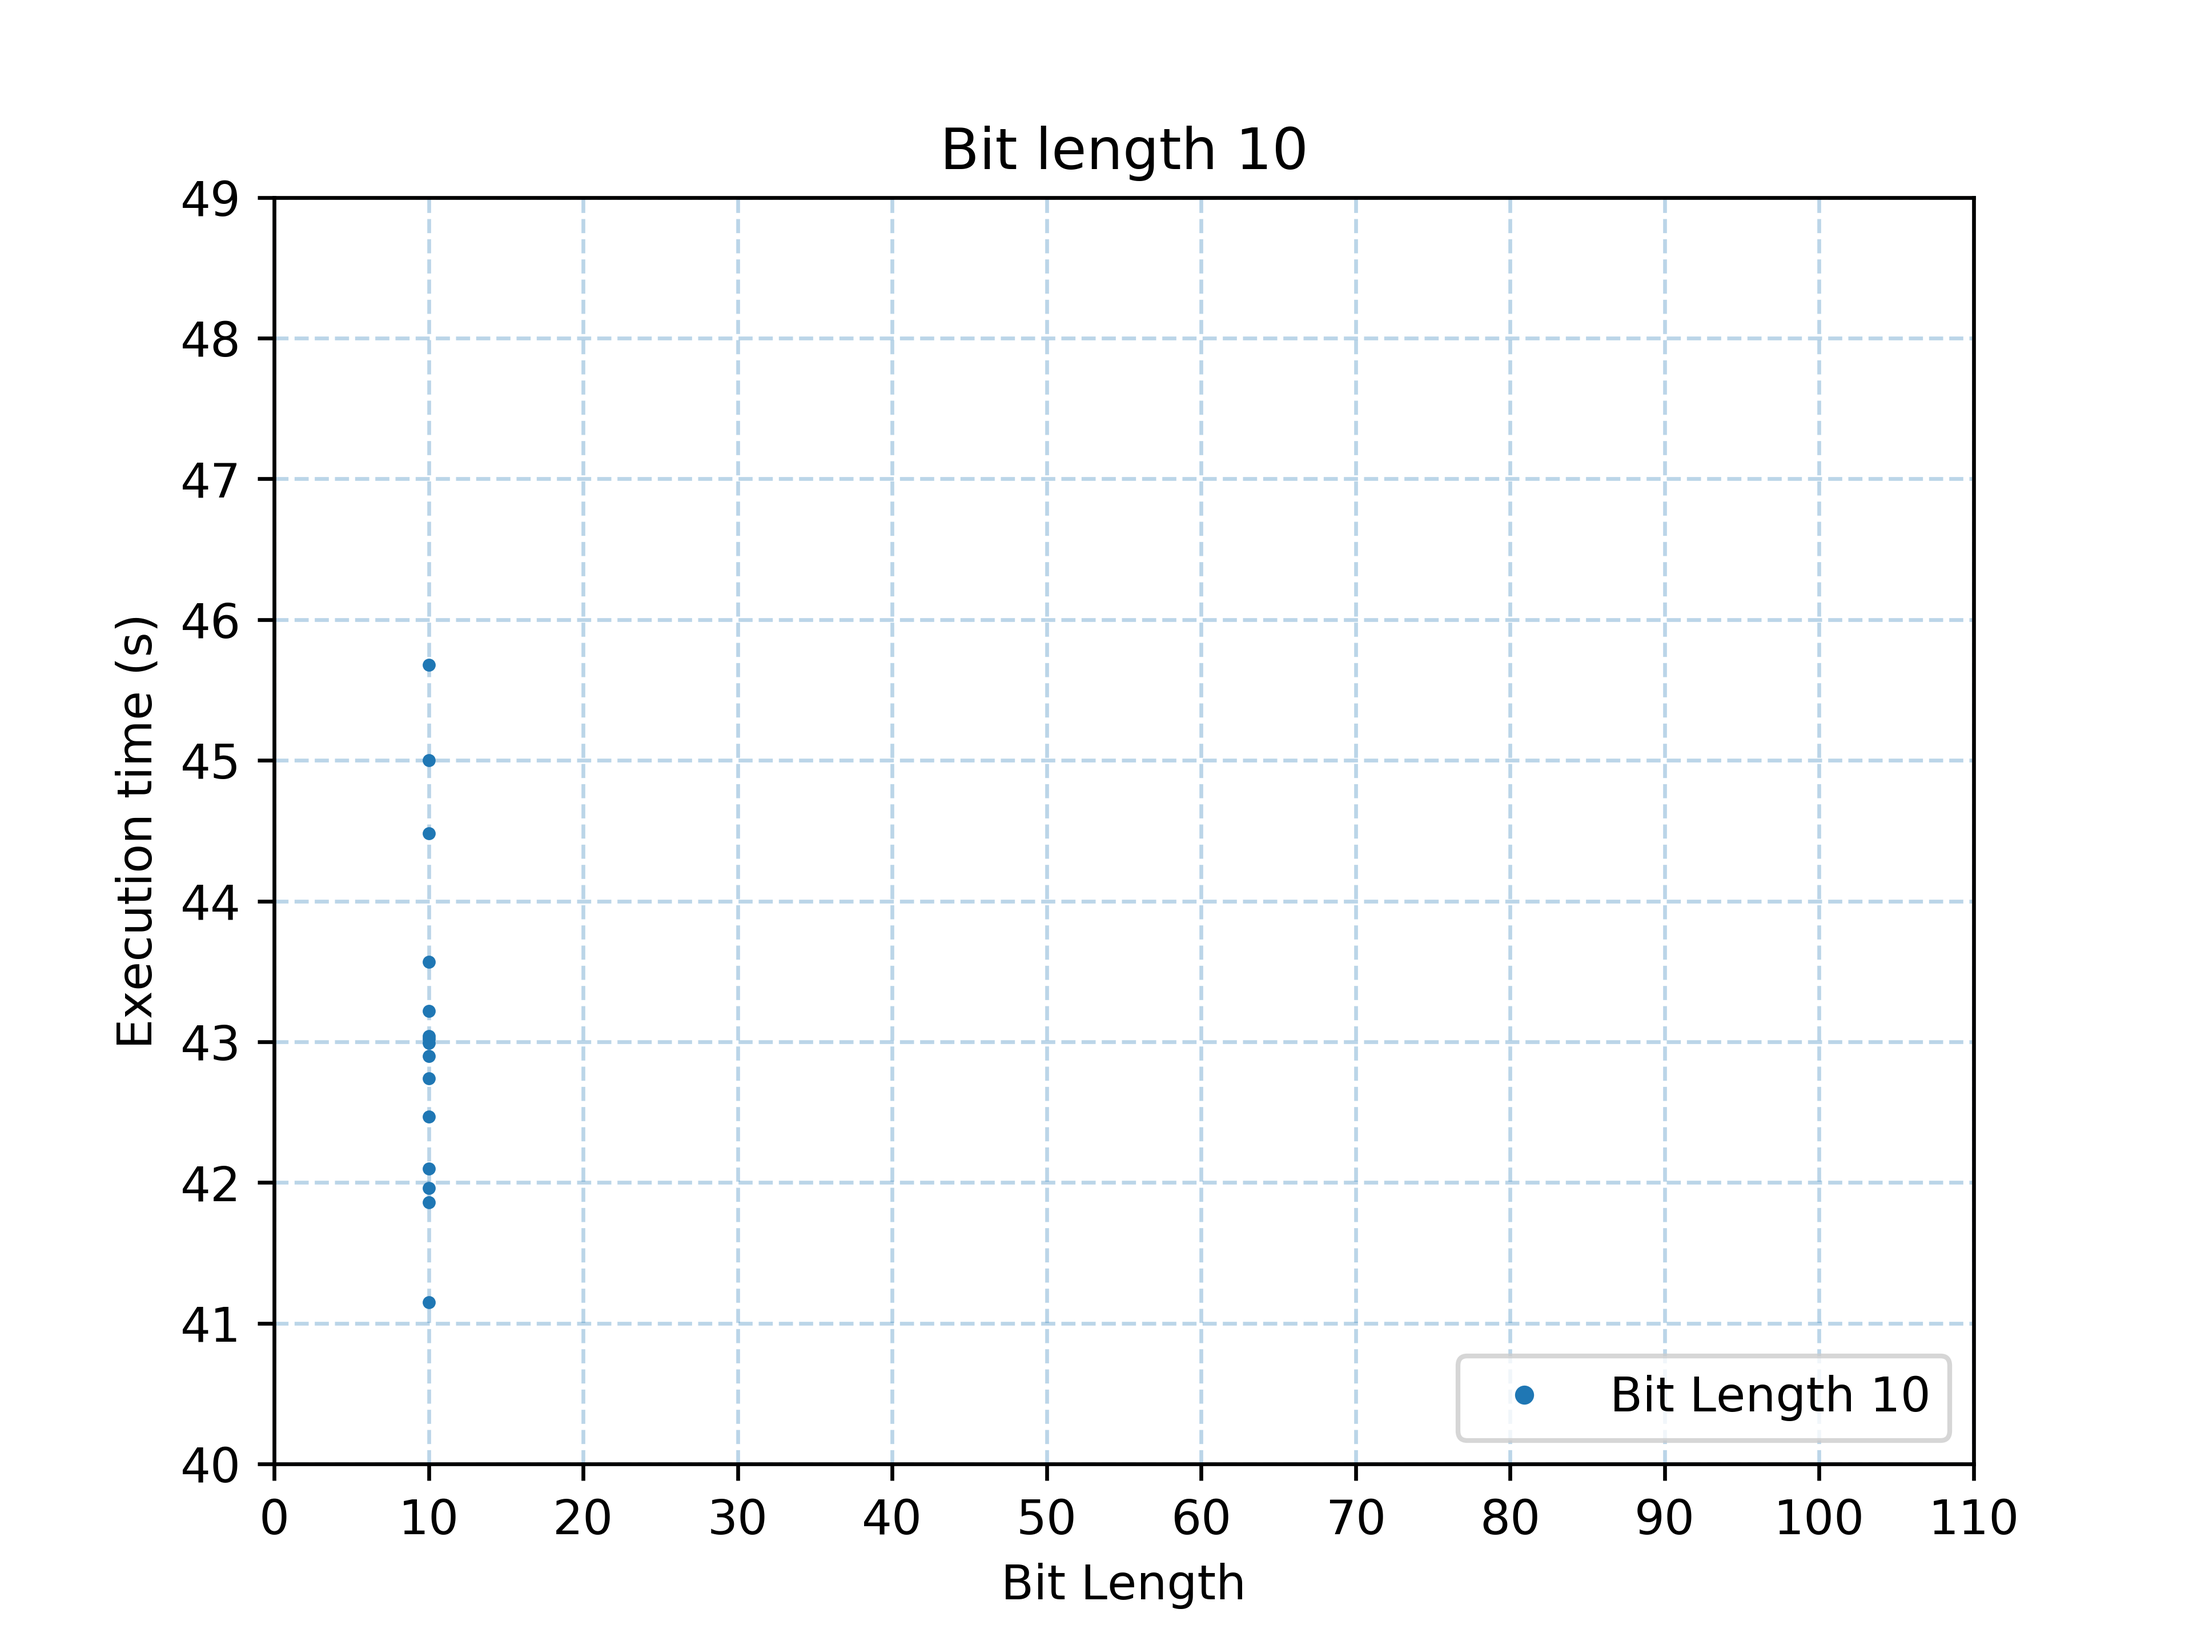
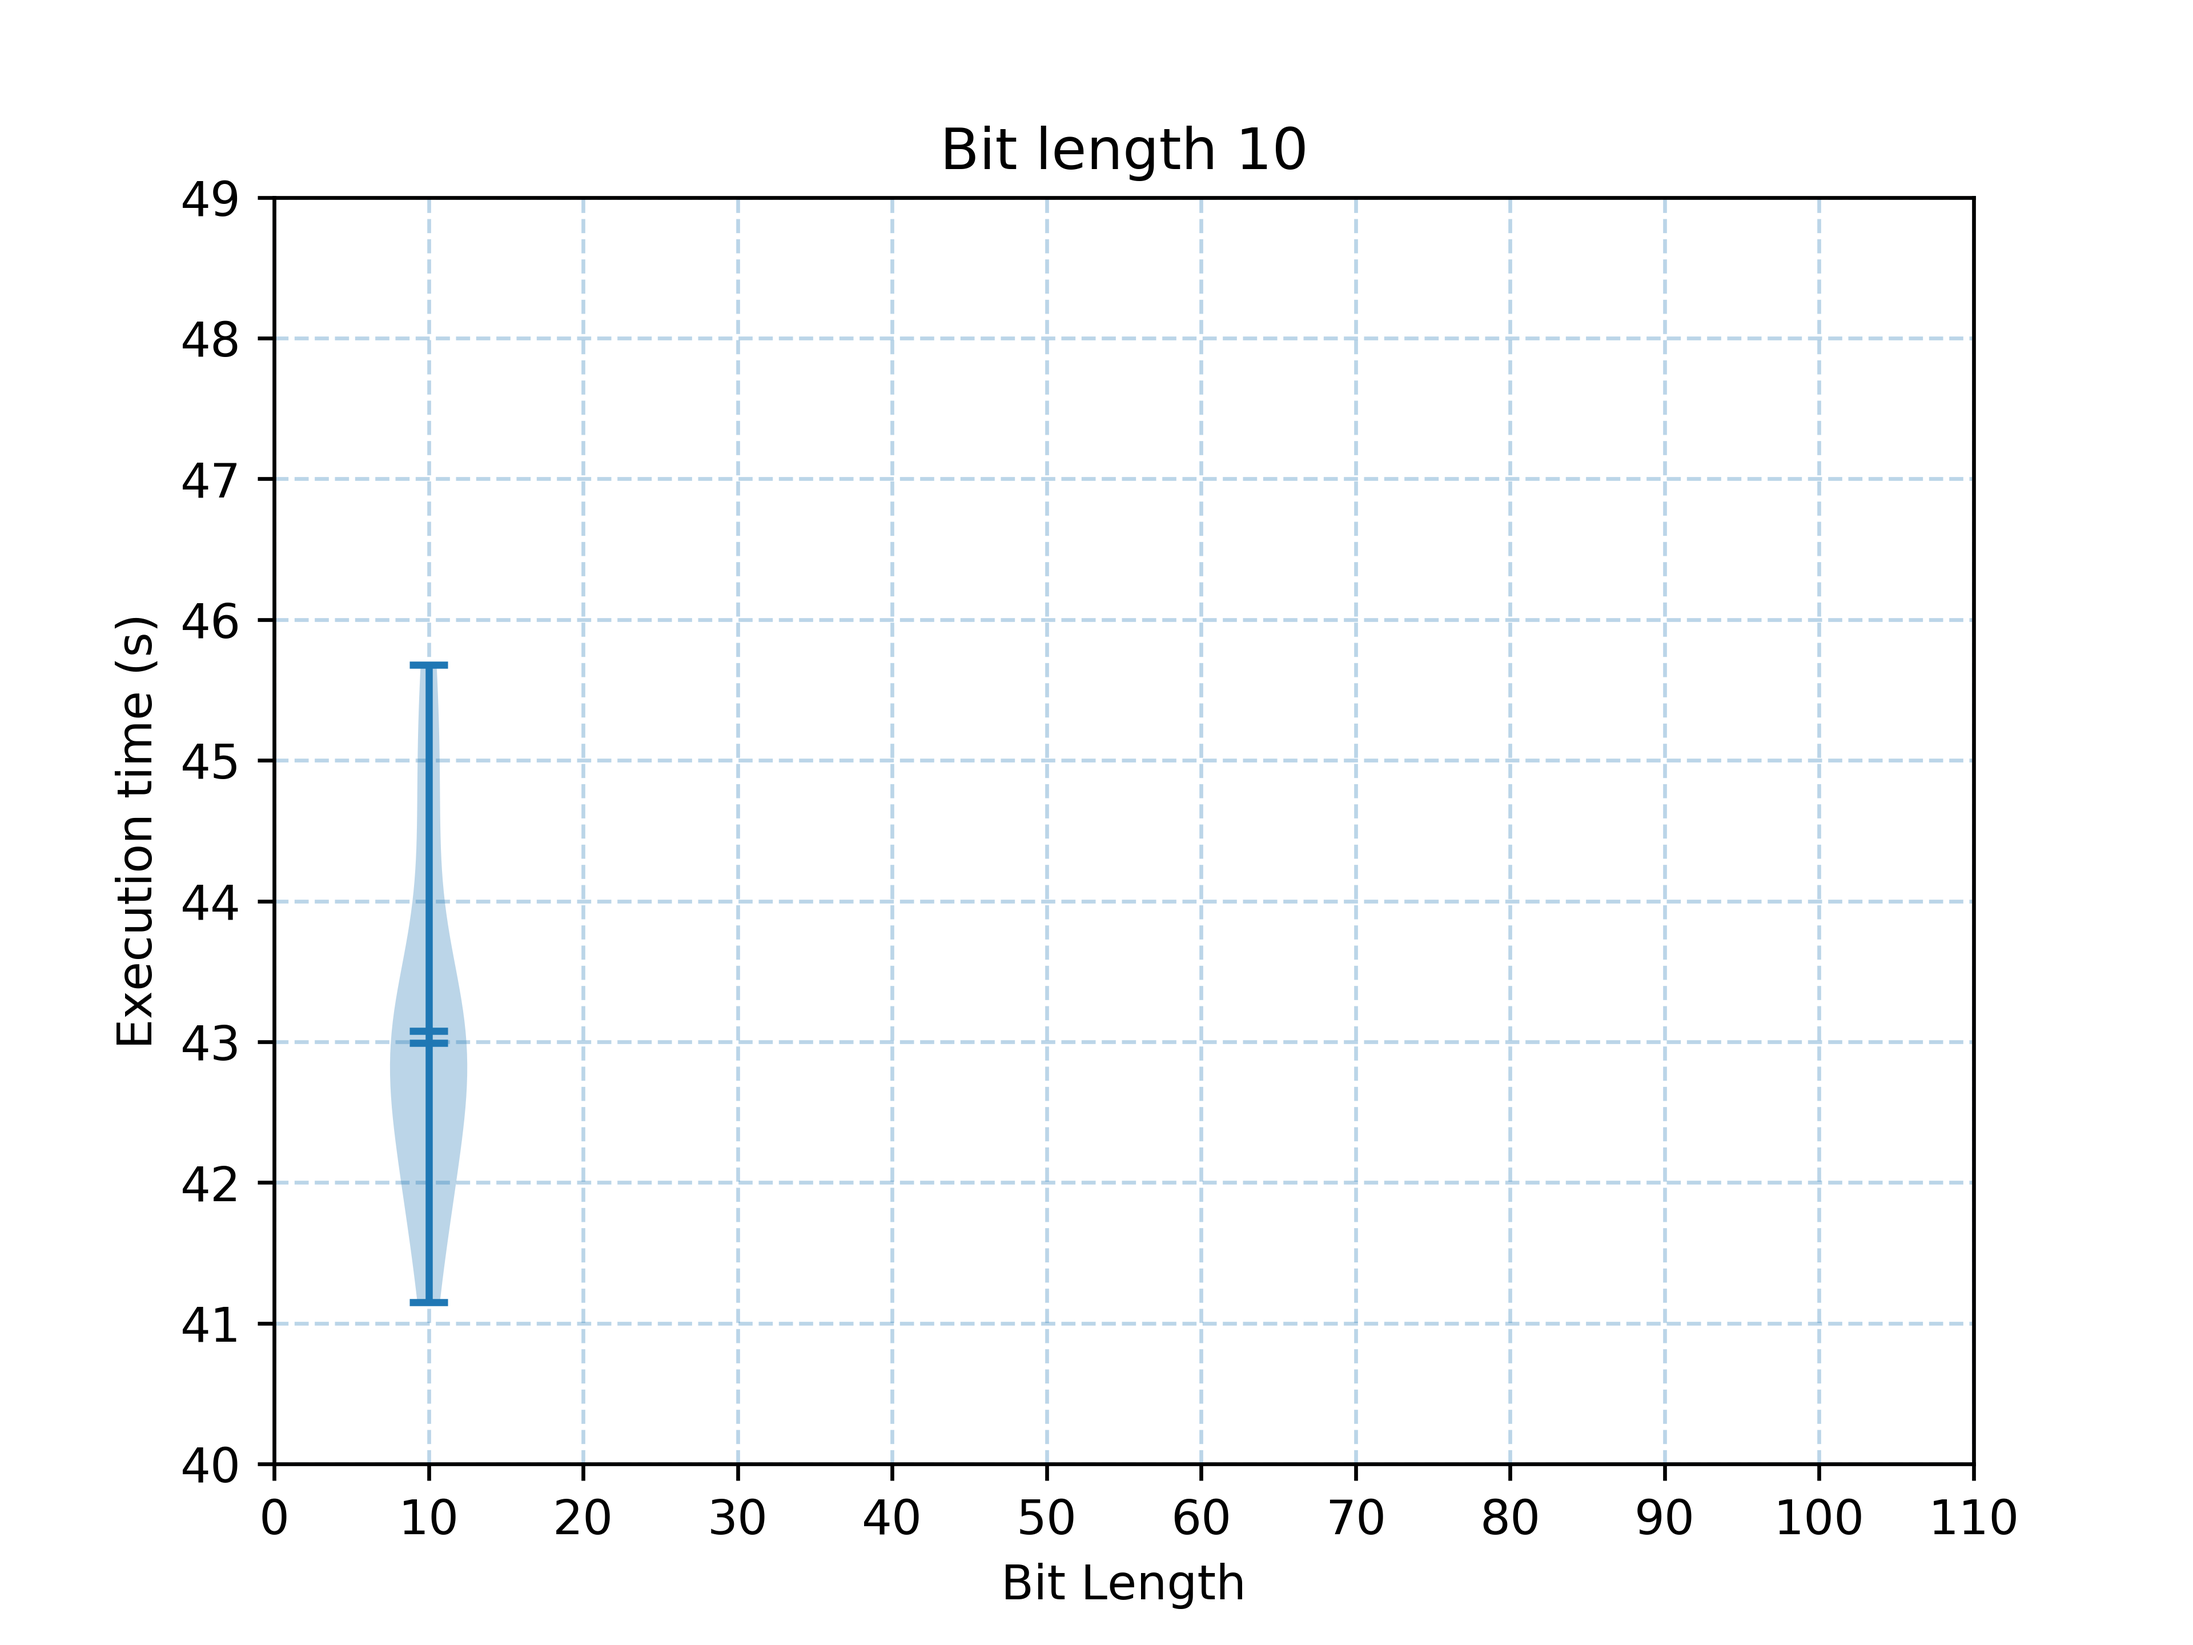
Violin plots done

Changed region(s): [[0.1562, 0.4062, 0.2188, 0.8125], [0.6562, 0.8125, 0.9062, 0.875]]

diff --git a/src/graph/createGraph.py b/src/graph/createGraph.py
@@ -26,8 +26,8 @@ def readFiles(files, col, round_val=None):
             data_tmp[col[1]] = data_tmp[col[1]].round(decimals=2)
 
         # insert zero in both columns at index 1
-        line = pd.DataFrame({col[0]: 0, col[1]: 0}, index=[0])
-        data_tmp = pd.concat([data_tmp.iloc[:0], line, data_tmp.iloc[0:]]).reset_index(drop=True)
+        # line = pd.DataFrame({col[0]: 0, col[1]: 0}, index=[0])
+        # data_tmp = pd.concat([data_tmp.iloc[:0], line, data_tmp.iloc[0:]]).reset_index(drop=True)
 
         data.append(data_tmp)  # Add the new data from the csv file to the list
     return data
@@ -62,10 +62,10 @@ def single_graph(data, col, axis, axis_name,
         plt_counter += 1
 
         # Add the legend to the graph
-        lgnd = plt.legend(loc=lgn_mode, numpoints=1, fontsize=10)
+        # lgnd = plt.legend(loc=lgn_mode, numpoints=1, fontsize=10)
 
         # Set the size of the points in the legend
-        lgnd.legendHandles[0]._legmarker.set_markersize(lgn_pt_size)
+        # lgnd.legendHandles[0]._legmarker.set_markersize(lgn_pt_size)
 
         # Save graph as an image
         plt.savefig(img_folder + img[idx] + img_type, dpi=img_size)
@@ -124,6 +124,60 @@ def multiple_graph(data, col, axis, axis_name,
         plt.close()
 
 
+def two_graphs(data, col, axis, axis_name,
+               g_name, g_comp_name, g_mode, grid_mode, grid_colour, colour,
+               lgn_mode, lgn_pt_size, pt_size, labels,
+               img_folder, img, img_type, img_size):
+    # Go through all the list of data in data - which are the number of graphs to plot
+    for idx, arr in enumerate(data):
+        # The two last ones are already plotted
+        if idx == len(data) - 2:
+            break
+
+        # Each graph prints the comparison with one of the following ones
+        for i in range(idx + 1, len(data)):
+            # Plot counter
+            plt_counter = 0
+
+            # Update the name for the graph
+            name = img_folder + img[idx]
+            name_plt = g_comp_name[idx]
+
+            # Base graph
+            createPlots(col[0], col[1], data[idx], labels[idx], colour[idx],
+                        axis[0], axis[1], pt_size, g_name[idx], axis_name,
+                        grid_mode, g_mode, grid_colour=grid_colour)
+
+            # Update plot counter
+            plt_counter += 1
+
+            # Update the name for the graph
+            name += " & " + img[i]
+            name_plt += " & \n" + g_comp_name[i]
+
+            # Comparison graph
+            createPlots(col[0], col[1], data[i], labels[i], colour[i],
+                        axis[0], axis[1], pt_size, g_name[i], axis_name,
+                        grid_mode, g_mode, grid_colour=grid_colour)
+
+            # Update plot counter
+            plt_counter += 1
+
+            # Add the legend to the graph
+            lgnd = plt.legend(loc=lgn_mode, numpoints=1, fontsize=10)
+
+            # Set the size of the points in the legend
+            for i in range(0, plt_counter):
+                lgnd.legendHandles[i]._legmarker.set_markersize(lgn_pt_size)
+
+            # Set the name for the comparison graph
+            plt.title(name_plt)
+
+            # Save graph as an image
+            plt.savefig(name + img_type, dpi=img_size)
+            plt.close()
+
+
 def create_graph():
     """
     It creates the graphs for the CSV files created.
@@ -141,44 +195,69 @@ def create_graph():
 
     # Creates single graphs
     single_graph(data, COL_NM, AXIS, AXIS_NM,
-                 GRAPH_NM, PTN, GRID_DISC, COLOUR,
+                 GRAPH_NM, VLN, GRID_DISC, COLOUR,
                  LGN_LR, PTN_SIZE_LGN, PTN_SIZE, LABEL,
                  IMG_FOLDER_PATH, IMG, IMG_TYPE, IMG_SIZE)
 
+    """
+    
     # Creates comparison graphs
     multiple_graph(data, COL_NM, AXIS, AXIS_NM,
                    GRAPH_NM, GRAPH_COMP_NM, PTN, GRID_DISC, GRID_COLOUR, COLOUR,
                    LGN_LR, PTN_SIZE_LGN, PTN_SIZE, LABEL,
                    IMG_FOLDER_PATH, IMG, IMG_TYPE, IMG_SIZE)
 
+    # Creates comparison of two graphs
+    two_graphs(data, COL_NM, AXIS, AXIS_NM,
+               GRAPH_NM, GRAPH_COMP_NM, PTN, GRID_DISC, GRID_COLOUR, COLOUR,
+               LGN_LR, PTN_SIZE_LGN, PTN_SIZE, LABEL,
+               IMG_FOLDER_PATH, IMG, IMG_TYPE, IMG_SIZE)
+    
+    """
+
 
 def createPlots(c1, c2, data, label, colour,
                 x_axis, y_axis, point_size, name, axis,
                 grid_linestyle, mode, grid_colour=None):
+    # Load the data
     x = data[c1]
     y = data[c2]
 
+    # Arrange the data
     x_axis = np.arange(x_axis[0], x_axis[1], x_axis[2])
     y_axis = np.arange(y_axis[0], y_axis[1], y_axis[2])
 
+    # Graph with points
     if mode is PTN:
         plt.plot(x, y, 'o', label=label, markersize=np.sqrt(point_size[0]), color=colour)
-        # plt.plot(x, y, kind='barh, label=label, markersize=np.sqrt(point_size), color=colour)
 
-    else:
+    # Line graph with discontinuous lines
+    elif mode is LN_DISC:
         plt.plot(x, y, label=label, marker='.', markersize=np.sqrt(point_size[1]), color=colour, linestyle=':')
         plt.fill_between(x, y, alpha=0.4, color=colour)
 
-    plt.xlim([0, x_axis[1]])
-    plt.ylim([40, y_axis[1]])  # TODO SET AS AN INPUT PARAMETER
+    elif mode is VLN:
+        plt.violinplot(y, [x[1]], points=60, widths=5, showmeans=True,
+                       showextrema=True, showmedians=True, bw_method=0.5)
+
+        # Incorrect plot mode
+    else:
+        print("ERROR: Wrong plot mode")
+        return -1
+
+    # Set the ranges for the
+    plt.xlim([x_axis[0], x_axis[len(x_axis) - 1]])
+    plt.ylim([y_axis[0], y_axis[len(y_axis) - 1]])
 
     plt.xticks(x_axis)
     plt.yticks(y_axis)
 
+    # Set the name to the graph and the names for the axis
     plt.title(name)
     plt.xlabel(axis[0])
     plt.ylabel(axis[1])
 
+    # Set the colour to the grid
     if grid_colour is None:
         plt.grid(True, color=colour, alpha=0.3, linestyle=grid_linestyle)
     else:

diff --git a/src/constants/graph_const.py b/src/constants/graph_const.py
@@ -81,6 +81,8 @@ LGN_LR = "lower right"
 
 ############# Modes for the graphs  #############
 PTN = "POINT"
+LN_DISC = "LN_DISC"
+VLN = "VLN"
 
 ############# Modes for the Grid Linestyle  #############
 GRID_DISC = '--'
